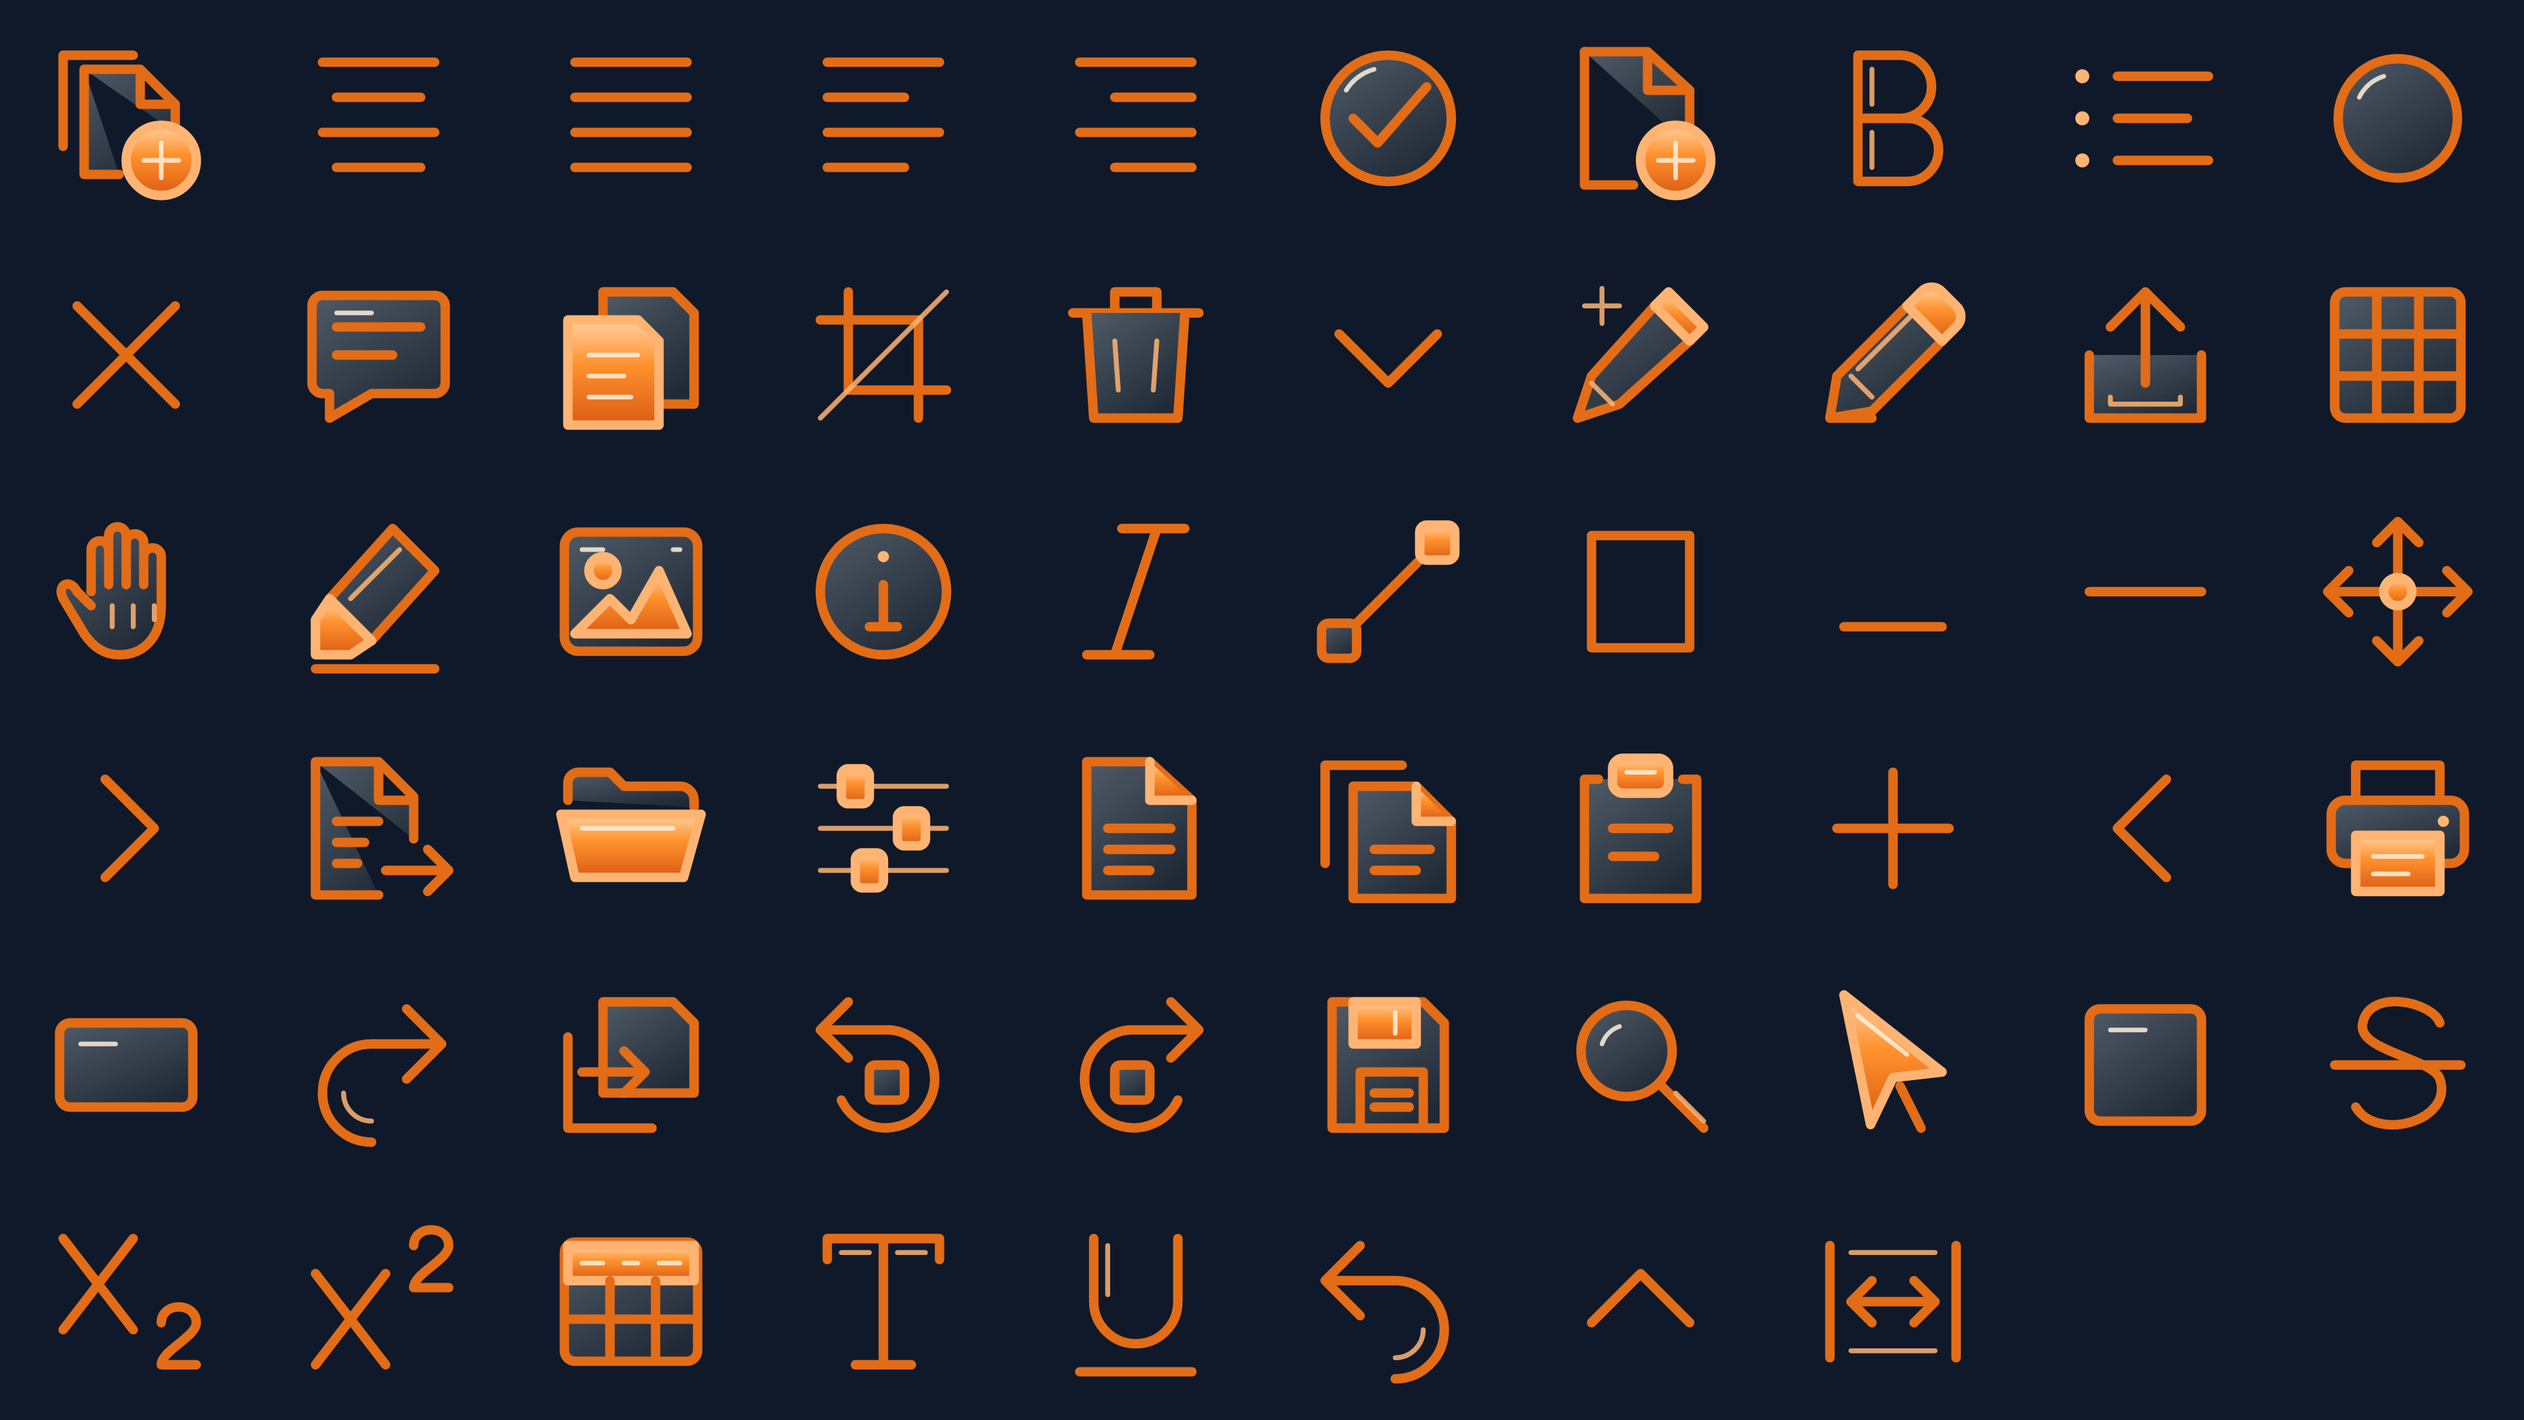
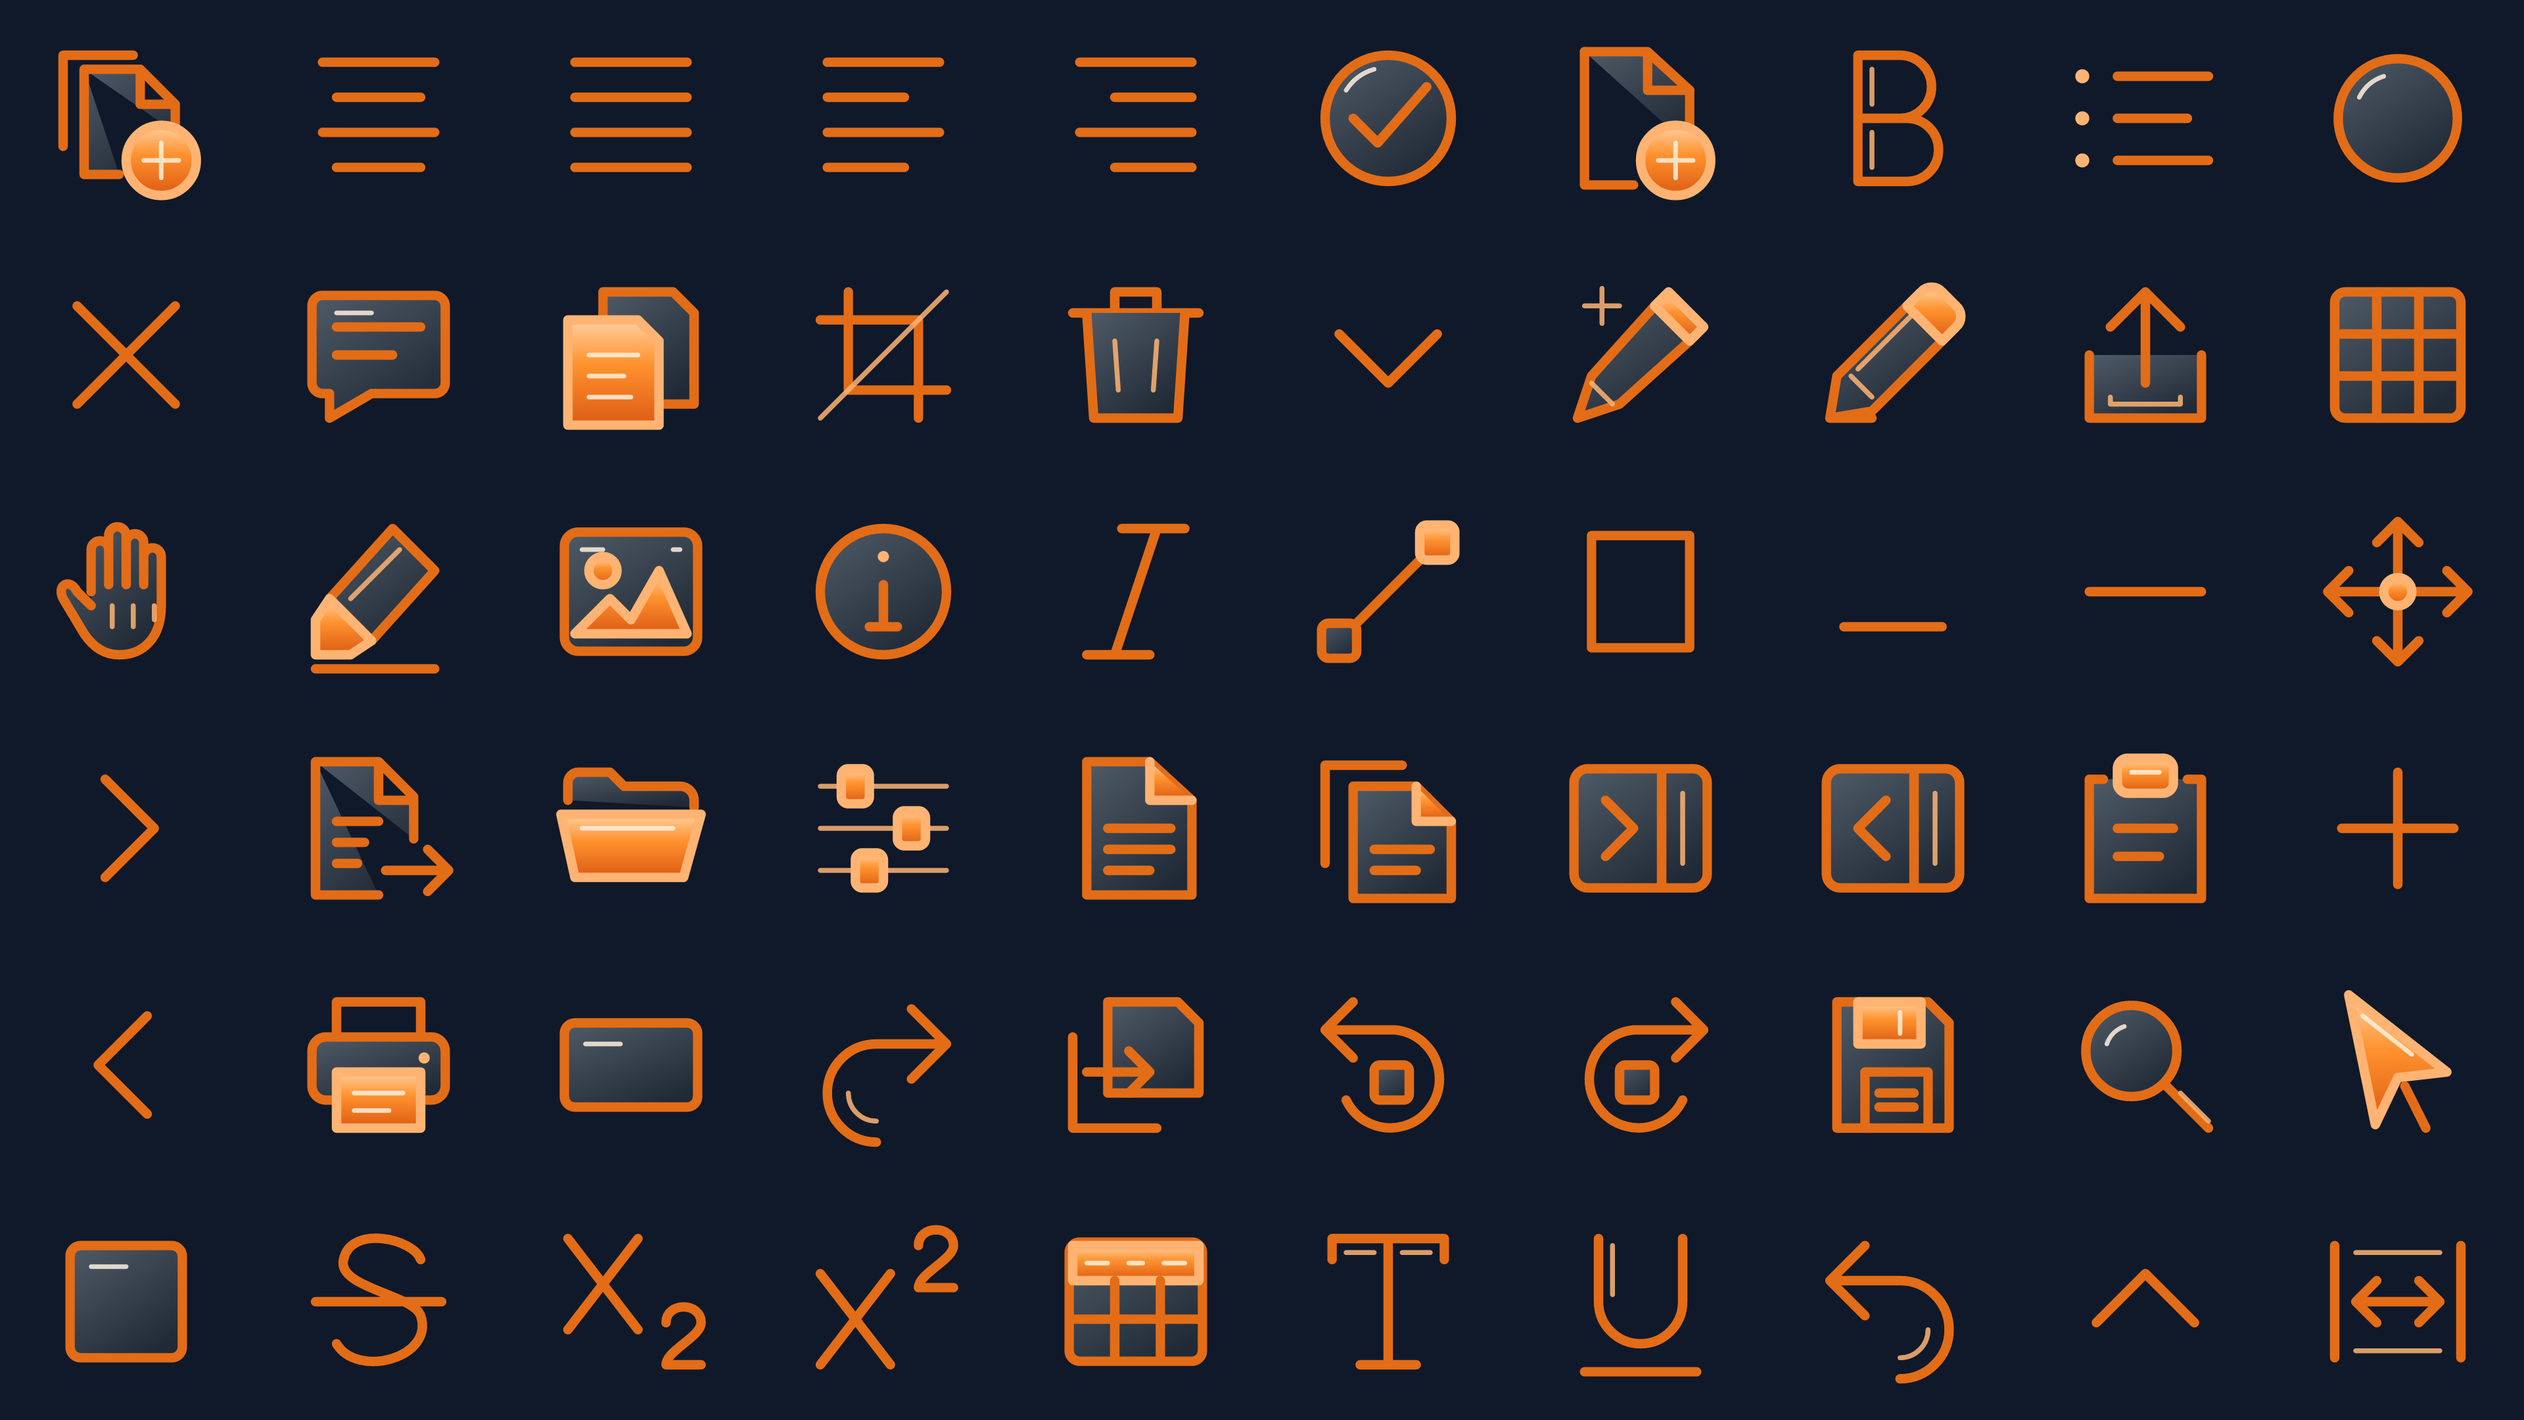
Polish properties panel controls for V1.03

diff --git a/src/ui/layout.rs b/src/ui/layout.rs
@@ -451,13 +451,24 @@ impl App {
         }
         if self.properties_collapsed {
             let panel = egui::Panel::right("properties-collapsed")
-                .exact_size(32.)
+                .exact_size(40.)
                 .resizable(false)
+                .frame(
+                    egui::Frame::new()
+                        .fill(Color32::from_rgb(247, 249, 253))
+                        .inner_margin(4.),
+                )
                 .show(root, |ui| {
-                    if ui
-                        .button("‹")
-                        .on_hover_text("Déplier les réglages")
-                        .clicked()
+                    if icons::button(
+                        ui,
+                        Icon::PanelExpand,
+                        "Déplier les réglages",
+                        false,
+                        true,
+                        32.,
+                    )
+                    .on_hover_text("Déplier les réglages")
+                    .clicked()
                     {
                         self.properties_collapsed = false;
                     }
@@ -479,7 +490,17 @@ impl App {
                 egui::ScrollArea::vertical()
                     .id_salt(("properties-scroll", self.active_document))
                     .show(ui, |ui| {
-                        if ui.button("Replier ›").clicked() {
+                        if icons::button(
+                            ui,
+                            Icon::PanelCollapse,
+                            "Replier les réglages",
+                            false,
+                            true,
+                            32.,
+                        )
+                        .on_hover_text("Replier les réglages")
+                        .clicked()
+                        {
                             self.properties_collapsed = true;
                         }
                         if self.image_crop.is_some() {

diff --git a/src/ui/tests.rs b/src/ui/tests.rs
@@ -3560,7 +3560,7 @@ fn collapsing_properties_keeps_the_selected_drawing_tool_and_scale() {
         input_frame(&ctx, &mut app, vec![]);
     }
     let width = app.canvas.width();
-    click_named_control(&ctx, &mut app, "Replier ›");
+    click_named_control(&ctx, &mut app, "Replier les réglages");
     for _ in 0..3 {
         input_frame(&ctx, &mut app, vec![]);
     }
@@ -3568,7 +3568,7 @@ fn collapsing_properties_keeps_the_selected_drawing_tool_and_scale() {
     assert_eq!(app.tool, Tool::Draw);
     assert_eq!(app.zoom, 0.7);
     assert!(app.canvas.width() > width + 150.);
-    click_named_control(&ctx, &mut app, "‹");
+    click_named_control(&ctx, &mut app, "Déplier les réglages");
     for _ in 0..3 {
         input_frame(&ctx, &mut app, vec![]);
     }
@@ -5089,10 +5089,10 @@ fn fitted_page_edges_remain_visible_through_text_panel_collapse_and_expand_at_th
                 assert!(panel_zoom < full_zoom);
             }
             for _ in 0..2 {
-                click_named_control(&ctx, &mut app, "Replier ›");
+                click_named_control(&ctx, &mut app, "Replier les réglages");
                 let collapsed_zoom = check(&ctx, &mut app);
                 assert!(collapsed_zoom >= panel_zoom);
-                click_named_control(&ctx, &mut app, "‹");
+                click_named_control(&ctx, &mut app, "Déplier les réglages");
                 assert!((check(&ctx, &mut app) - panel_zoom).abs() < 0.001);
             }
         }

diff --git a/src/icons.rs b/src/icons.rs
@@ -54,6 +54,8 @@ pub enum Icon {
     AlignJustify,
     Bullets,
     OfficeExport,
+    PanelCollapse,
+    PanelExpand,
 }
 pub const INK: Color32 = Color32::from_rgb(30, 49, 73);
 pub const ACCENT: Color32 = Color32::from_rgb(226, 101, 15);
@@ -113,6 +115,8 @@ impl Icon {
             Self::AlignJustify => "Justifier",
             Self::Bullets => "Puces",
             Self::OfficeExport => "Exporter en DOCX ou ODT",
+            Self::PanelCollapse => "Replier les réglages",
+            Self::PanelExpand => "Déplier les réglages",
         }
     }
     fn source(self) -> egui::ImageSource<'static> {
@@ -170,6 +174,8 @@ impl Icon {
             Self::AlignJustify => egui::include_image!("../assets/icons/alignjustify.svg"),
             Self::Bullets => egui::include_image!("../assets/icons/bullets.svg"),
             Self::OfficeExport => egui::include_image!("../assets/icons/office-export.svg"),
+            Self::PanelCollapse => egui::include_image!("../assets/icons/panel-collapse.svg"),
+            Self::PanelExpand => egui::include_image!("../assets/icons/panel-expand.svg"),
         }
     }
 }
@@ -377,6 +383,8 @@ mod tests {
             Icon::AlignJustify,
             Icon::Bullets,
             Icon::OfficeExport,
+            Icon::PanelCollapse,
+            Icon::PanelExpand,
         ] {
             let loaded = egui::Image::new(icon.source())
                 .fit_to_exact_size(Vec2::splat(96.))

diff --git a/scripts/design_icons.py b/scripts/design_icons.py
@@ -7,6 +7,8 @@ from pathlib import Path
 
 ROOT = Path(__file__).resolve().parents[1] / "assets/icons"
 ART = {
+    "panel-collapse": '<rect class="surface" x="2.5" y="3.5" width="19" height="17" rx="2"/><path d="M15 4v16"/><path class="detail" d="M18 7v10"/><path d="m7 8 4 4-4 4"/>',
+    "panel-expand": '<rect class="surface" x="2.5" y="3.5" width="19" height="17" rx="2"/><path d="M15 4v16"/><path class="detail" d="M18 7v10"/><path d="m11 8-4 4 4 4"/>',
     "open": '<path class="surface" d="M3 8V5.5A1.5 1.5 0 0 1 4.5 4H9l2 2h8a2 2 0 0 1 2 2v1"/><path class="metal" d="M2 10h20l-2.5 9H4z"/><path class="glint" d="M5 12h13"/>',
     "save": '<path class="surface" d="M4 3h13l3 3v15H4z"/><path class="metal" d="M7 3h9v6H7z"/><path d="M8 21v-8h9v8M10 16h5M10 18h5"/><path class="glint" d="M13 4.5v3"/>',
     "print": '<path d="M6 8V3h12v5"/><rect class="surface" x="2.5" y="8" width="19" height="9" rx="2"/><path class="metal" d="M6 13h12v8H6z"/><path class="glint" d="M8.5 16h7M8.5 18.5h5"/><circle class="dot" cx="18.5" cy="11" r=".8"/>',

diff --git a/src/lib.rs b/src/lib.rs
@@ -14,5 +14,5 @@ pub mod transfer;
 /// Public application identity, shared by the window and welcome screen.
 pub const APP_NAME: &str = "PDFnorris";
 pub const SLOGAN: &str = "Aucun PDF ne lui résiste.";
-pub const DISPLAY_VERSION: &str = "V1.02";
-pub const WINDOW_TITLE: &str = "PDFnorris V1.02 — Aucun PDF ne lui résiste.";
+pub const DISPLAY_VERSION: &str = "V1.03";
+pub const WINDOW_TITLE: &str = "PDFnorris V1.03 — Aucun PDF ne lui résiste.";

diff --git a/README.md b/README.md
@@ -14,15 +14,15 @@
 </p>
 
 <p align="center">
-  <a href="https://github.com/jossmair/PDFnorris/releases/download/v1.02/PDFnorris-1.0.2-Setup.exe"><img src="assets/telecharger-installateur.svg" alt="Installer PDFnorris V1.02 pour Windows" width="310"></a>
+  <a href="https://github.com/jossmair/PDFnorris/releases/download/v1.03/PDFnorris-1.0.3-Setup.exe"><img src="assets/telecharger-installateur.svg" alt="Installer PDFnorris V1.03 pour Windows" width="310"></a>
   &nbsp;
-  <a href="https://github.com/jossmair/PDFnorris/releases/download/v1.02/PDFnorris-1.0.2-portable-exe-windows-x64.zip"><img src="assets/telecharger-portable.svg" alt="Télécharger le ZIP portable V1.02" width="310"></a>
+  <a href="https://github.com/jossmair/PDFnorris/releases/download/v1.03/PDFnorris-1.0.3-portable-exe-windows-x64.zip"><img src="assets/telecharger-portable.svg" alt="Télécharger le ZIP portable V1.03" width="310"></a>
 </p>
 
 <p align="center">
-  <strong>V1.02</strong> &nbsp;·&nbsp;
-  <a href="https://github.com/jossmair/PDFnorris/releases/tag/v1.02">Les nouveautés</a> &nbsp;·&nbsp;
-  <a href="https://github.com/jossmair/PDFnorris/releases/download/v1.02/SHA256SUMS.txt">Empreintes SHA-256</a> &nbsp;·&nbsp;
+  <strong>V1.03</strong> &nbsp;·&nbsp;
+  <a href="https://github.com/jossmair/PDFnorris/releases/tag/v1.03">Les nouveautés</a> &nbsp;·&nbsp;
+  <a href="https://github.com/jossmair/PDFnorris/releases/download/v1.03/SHA256SUMS.txt">Empreintes SHA-256</a> &nbsp;·&nbsp;
   <a href="#bien-démarrer">Bien démarrer</a>
 </p>
 
@@ -39,9 +39,9 @@ Police, taille, couleurs, alignement, puces et interligne : les réglages resten
 
 ## Une nouvelle famille d’icônes
 
-58 pictogrammes vectoriels orange et anthracite, avec des contours fins et des détails cuivrés. Ils restent nets à chaque échelle. La gouttière de défilement des miniatures apparaît uniquement lorsqu’elle est nécessaire.
+60 pictogrammes vectoriels orange et anthracite, avec des contours fins et des détails cuivrés. Ils restent nets à chaque échelle. La gouttière de défilement des miniatures apparaît uniquement lorsqu’elle est nécessaire.
 
-[![Les 58 icônes de PDFnorris V1.02, aperçu en 3840 pixels](assets/icons-4k.png)](assets/icons-4k.png)
+[![Les 60 icônes de PDFnorris V1.03, aperçu en 3840 pixels](assets/icons-4k.png)](assets/icons-4k.png)
 
 <sub>Planche de présentation haute définition. L’application utilise les fichiers SVG vectoriels.</sub>
 
@@ -94,7 +94,7 @@ Police, taille, couleurs, alignement, puces et interligne : les réglages resten
 
 | **Sur votre PC** | **À emporter** |
 | :--- | :--- |
-| [Téléchargez l’installeur Windows](https://github.com/jossmair/PDFnorris/releases/download/v1.02/PDFnorris-1.0.2-Setup.exe), puis suivez l’assistant. | [Téléchargez le ZIP portable](https://github.com/jossmair/PDFnorris/releases/download/v1.02/PDFnorris-1.0.2-portable-exe-windows-x64.zip), puis extrayez-le entièrement. |
+| [Téléchargez l’installeur Windows](https://github.com/jossmair/PDFnorris/releases/download/v1.03/PDFnorris-1.0.3-Setup.exe), puis suivez l’assistant. | [Téléchargez le ZIP portable](https://github.com/jossmair/PDFnorris/releases/download/v1.03/PDFnorris-1.0.3-portable-exe-windows-x64.zip), puis extrayez-le entièrement. |
 | Installation pour votre compte utilisateur. | Lancez **PDFnorris.exe** dans le dossier extrait et gardez **LICENCES.txt** à ses côtés. |
 
 **Windows 10 / 11, 64 bits.** Aucun compte ni abonnement n’est nécessaire.
@@ -109,7 +109,7 @@ L’OCR utilise les langues compatibles installées dans Windows.
 - La limite d’ouverture de cette version est de 256 Mio.
 - Le traitement du clic molette a été repris dans la V1.01. Le test physique avec la souris à l’origine du signalement reste à confirmer.
 
-[Notes de version](https://github.com/jossmair/PDFnorris/releases/tag/v1.02) · [Vérifications détaillées](VALIDATION.md)
+[Notes de version](https://github.com/jossmair/PDFnorris/releases/tag/v1.03) · [Vérifications détaillées](VALIDATION.md)
 
 </details>
 
@@ -120,7 +120,7 @@ Indiquez la version et les étapes à reproduire ; utilisez un exemple sans donn
 
 Le code Rust, les tests et les ressources sont disponibles dans ce dépôt.
 
-[Sources V1.01](https://github.com/jossmair/PDFnorris/tree/v1.02) · [Compiler le logiciel](BUILDING.md) · [Contribuer](CONTRIBUTING.md) · [Feuille de route](ROADMAP.md) · [Sécurité](SECURITY.md)
+[Sources V1.01](https://github.com/jossmair/PDFnorris/tree/v1.03) · [Compiler le logiciel](BUILDING.md) · [Contribuer](CONTRIBUTING.md) · [Feuille de route](ROADMAP.md) · [Sécurité](SECURITY.md)
 
 ---
 

diff --git a/CHANGELOG.md b/CHANGELOG.md
@@ -1,5 +1,11 @@
 # PDFnorris — notes de version
 
+## V1.03
+
+- Panneau de réglages : deux pictogrammes vectoriels dédiés remplacent les boutons textuels de repli et de réouverture, avec des détails cuivrés et une surface anthracite.
+- Les commandes conservent une info-bulle et un nom accessible. Le repli préserve l’outil actif et l’adaptation de la page à l’espace disponible.
+- Poursuite des contrôles locaux OCR et DOCX/ODT ; les documents du corpus restent privés.
+
 ## V1.02
 
 - OCR : rétablissement des coordonnées après le redressement Windows, conservation du texte clair sur fond sombre et nettoyage limité aux pixels des lettres.

diff --git a/VALIDATION.md b/VALIDATION.md
@@ -1,5 +1,13 @@
 # Validation de PDFnorris
 
+## V1.03 — panneau de réglages
+
+Les contrôles simulés vérifient le repli et la réouverture par leurs noms accessibles,
+la conservation de l’outil et du zoom, ainsi que la visibilité des bords en mode
+largeur et page entière sur trois tailles de fenêtre. La famille compte 60 SVG.
+Les tests de corpus OCR et exports restent locaux ; leur réussite technique
+ne constitue pas une garantie de fidélité pour chaque document.
+
 ## V1.02 — OCR, historique et conversion structurée
 
 264 tests automatisés passent localement. Le diagnostic privé optionnel reste
